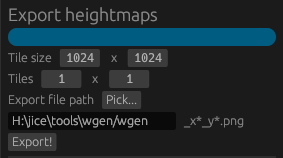
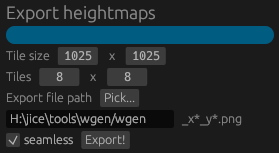
add seamless flag in exporter

diff --git a/src/panel_export.rs b/src/panel_export.rs
@@ -16,6 +16,10 @@ pub struct PanelExport {
     pub tiles_v: f32,
     /// image filename prefix
     pub file_path: String,
+    /// should we repeat the same pixel row on two adjacent tiles ?
+    /// not needed for unreal engine which handles multi-textures heightmaps
+    /// might be needed for other engines (for example godot heightmap terrain plugin)
+    pub seamless: bool,
     /// to disable the exporter ui during export
     pub enabled: bool,
     /// program's current directory
@@ -32,6 +36,7 @@ impl Default for PanelExport {
             tiles_h: 1.0,
             tiles_v: 1.0,
             file_path,
+            seamless: false,
             enabled: true,
             cur_dir,
         }
@@ -88,7 +93,11 @@ impl PanelExport {
                 );
                 ui.label("_x*_y*.png");
             });
-            export = ui.button("Export!").clicked();
+            ui.horizontal(|ui| {
+                ui.checkbox(&mut self.seamless, "seamless")
+                    .on_hover_text("whether pixel values are repeated on two adjacent tiles");
+                export = ui.button("Export!").clicked();
+            });
         });
         export
     }

diff --git a/src/exporter.rs b/src/exporter.rs
@@ -38,8 +38,16 @@ pub fn export_heightmap(
     };
     for ty in 0..export_data.tiles_v as usize {
         for tx in 0..export_data.tiles_h as usize {
-            let offset_x = tx * file_width;
-            let offset_y = ty * file_height;
+            let offset_x = if export_data.seamless {
+                tx * (file_width - 1)
+            } else {
+                tx * file_width
+            };
+            let offset_y = if export_data.seamless {
+                ty * (file_height - 1)
+            } else {
+                ty * file_height
+            };
             for py in 0..file_height {
                 for px in 0..file_width {
                     let mut h = wgen.combined_height(px + offset_x, py + offset_y);

diff --git a/README.md b/README.md
@@ -71,3 +71,7 @@ File names will be generated using _x?_y? pattern, for example for 2x2 tiles :
 * ..._x1_y0.png
 * ..._x0_y1.png
 * ..._x1_y1.png
+
+If the seamless checkbox is checked, the same row of pixels will be repeated on the border of two adjacent tiles.
+This is not needed if you export to unreal engine as it natively supports multi-textures heightmaps.
+This is needed for other engines where each tile is an independant terrain object.
